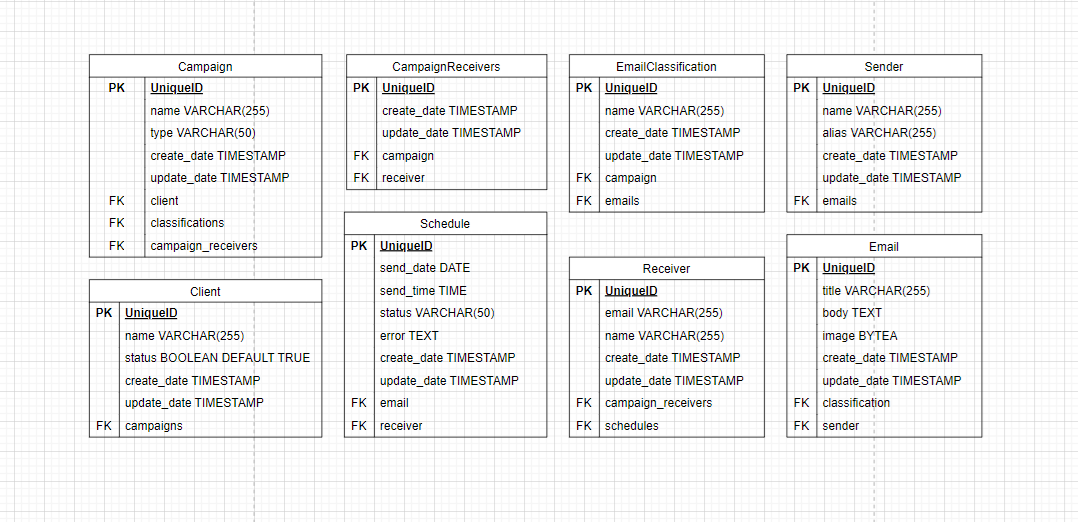
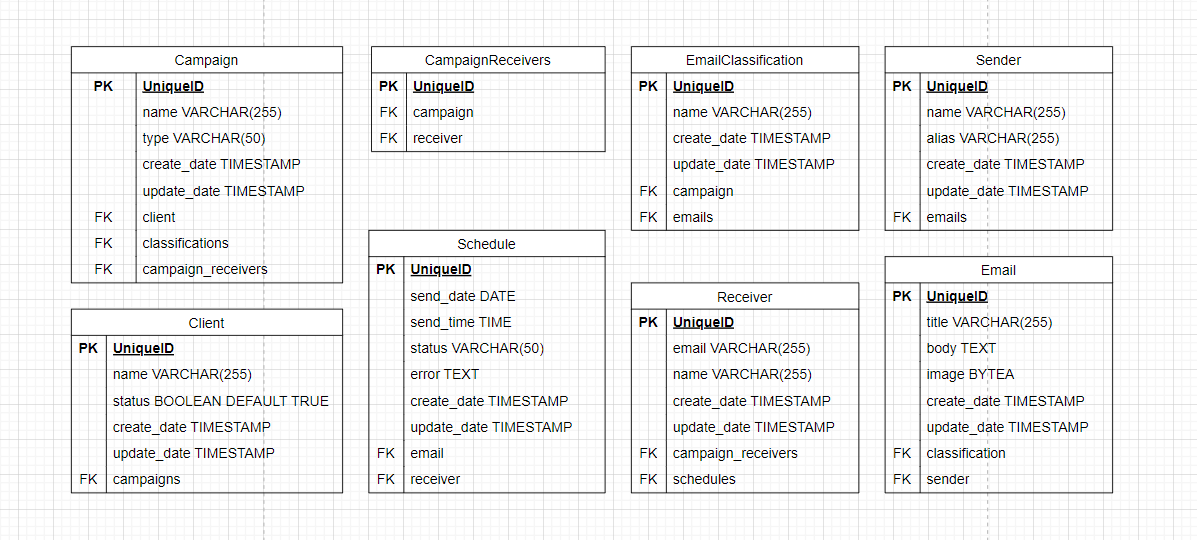
fix: corrigindo entity e DER

Changed region(s): [[0.0, 0.0307, 1.0, 0.9808]]

diff --git a/src/entities/CampaignReceiver.entity.ts b/src/entities/CampaignReceiver.entity.ts
@@ -12,10 +12,4 @@ export class CampaignReceiver {
 
     @ManyToOne(() => Receiver, receiver => receiver.campaign_receivers)
     receiver: Receiver;
-
-    @CreateDateColumn({ type: 'timestamp' })
-    create_date: Date;
-
-    @UpdateDateColumn({ type: 'timestamp' })
-    update_date: Date;
 }
